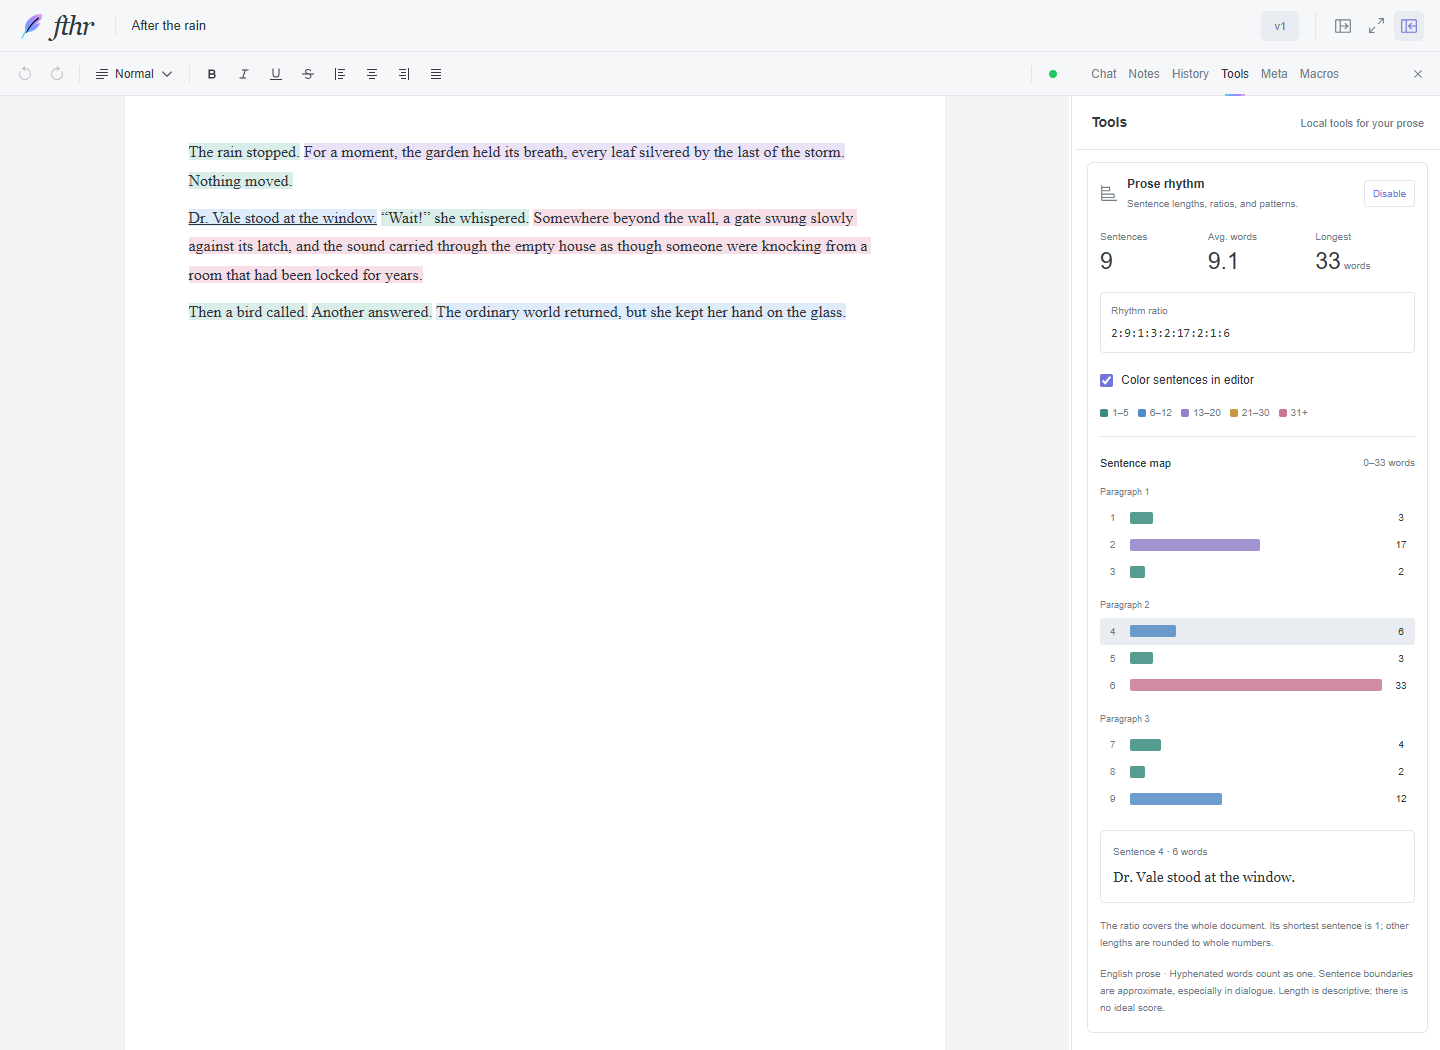
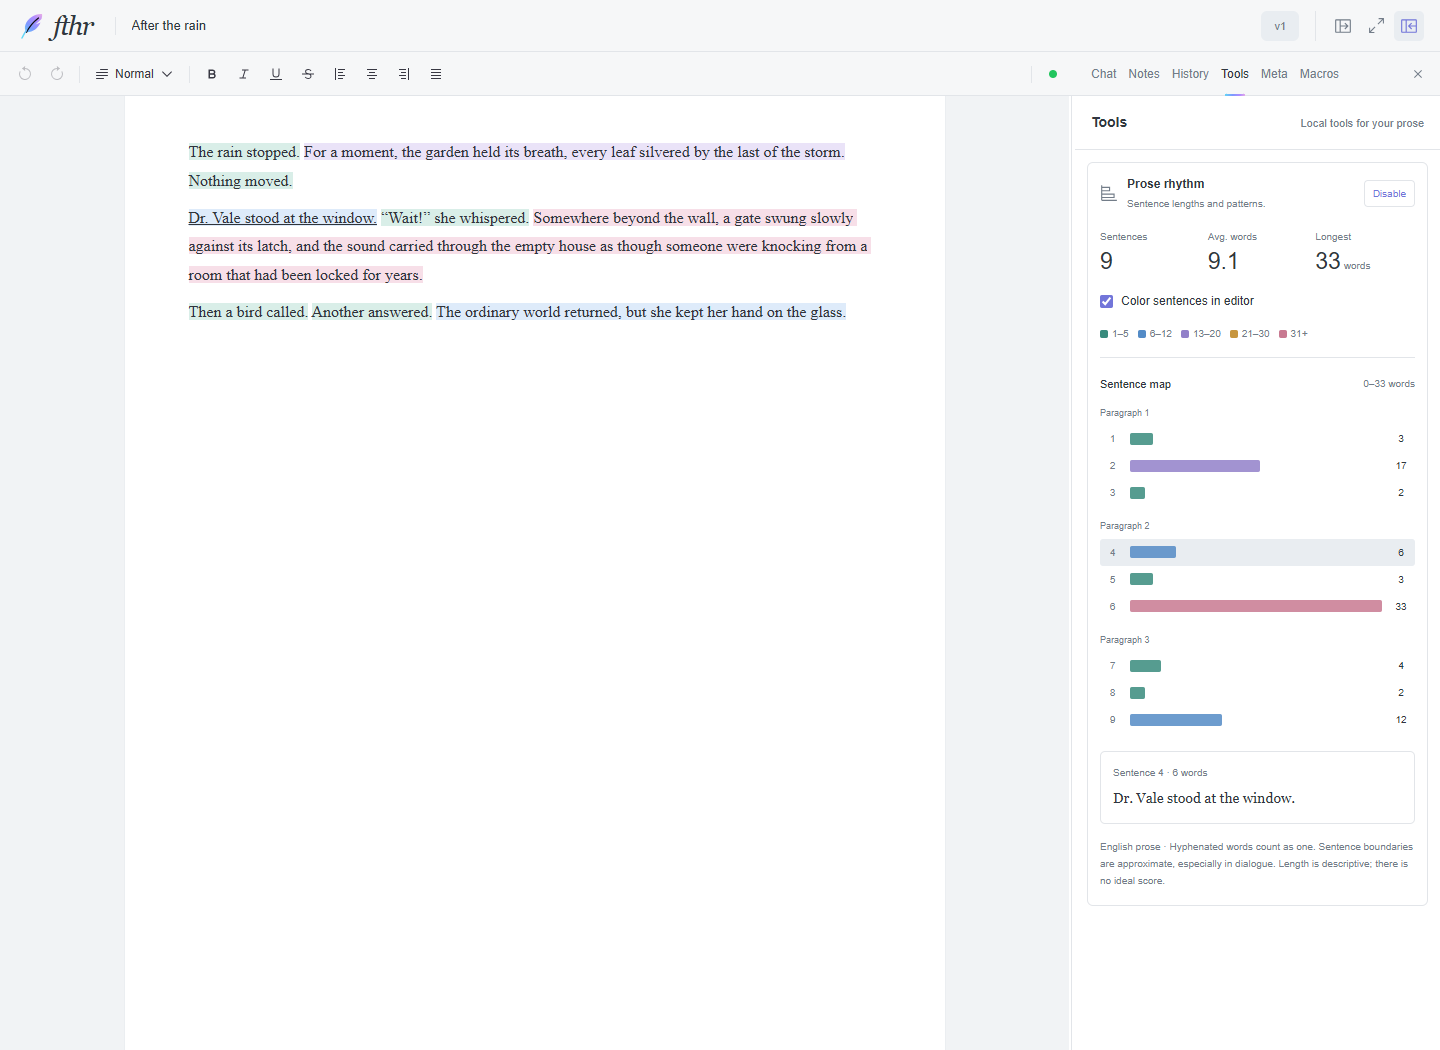
Remove rhythm ratio from the prose tool

diff --git a/src/components/Tools/ToolsPanel.tsx b/src/components/Tools/ToolsPanel.tsx
@@ -1,7 +1,7 @@
 import { useEffect, useState, type CSSProperties } from 'react';
 import { ChartBar } from '@carbon/icons-react';
 import useStore from '@store/store';
-import { canSegmentProse, RHYTHM_BANDS, rhythmRatio } from '@utils/prose-rhythm';
+import { canSegmentProse, RHYTHM_BANDS } from '@utils/prose-rhythm';
 import { useProseRhythm } from './ProseRhythmContext';
 import './tools.css';
 
@@ -25,7 +25,7 @@ export default function ToolsPanel() {
     <header className="tools-heading"><h2>Tools</h2><span>Local tools for your prose</span></header>
     <div className="tools-list"><article className="tools-tool">
     <div className="tools-tool-title"><ChartBar size={18} aria-hidden="true" />
-      <div className="tools-tool-copy"><h3>Prose rhythm</h3><p>Sentence lengths, ratios, and patterns.</p></div>
+      <div className="tools-tool-copy"><h3>Prose rhythm</h3><p>Sentence lengths and patterns.</p></div>
       <button type="button" className="tools-enable" aria-pressed={rhythm.enabled}
         aria-label={`${rhythm.enabled ? 'Disable' : 'Enable'} prose rhythm`}
         onClick={() => rhythm.setEnabled(value => !value)}>{rhythm.enabled ? 'Disable' : 'Enable'}</button>
@@ -41,8 +41,6 @@ export default function ToolsPanel() {
             <div><dt>Avg. words</dt><dd>{(total / sentences.length).toFixed(1)}</dd></div>
             <div><dt>Longest</dt><dd>{longest}<small> words</small></dd></div>
           </dl>
-          <div className="rhythm-ratio"><span>Rhythm ratio</span><code aria-label="Document rhythm ratio"
-            title="All sentences in the current document version, relative to the shortest sentence and rounded to whole numbers">{rhythmRatio(sentences.map(sentence => sentence.words))}</code></div>
           <label className="rhythm-color-toggle"><input type="checkbox" checked={rhythm.colors} disabled={!rhythm.highlightsAvailable}
             onChange={event => rhythm.setColors(event.target.checked)} />Color sentences in editor</label>
           {!rhythm.highlightsAvailable && <p className="rhythm-hint">Editor colors are unavailable in this browser. The sentence map is still available.</p>}
@@ -76,7 +74,6 @@ export default function ToolsPanel() {
             {active ? <><p>Sentence {sentences.indexOf(active) + 1} · {active.words} words{active.unfinished ? ' · Unfinished' : ''}</p><blockquote>{active.text}</blockquote></>
               : <p>Point to a bar to read its sentence. Click to find it in your writing.</p>}
           </div>
-          <p className="rhythm-hint">The ratio covers the whole document. Its shortest sentence is 1; other lengths are rounded to whole numbers.</p>
           <p className="rhythm-hint">English prose · Hyphenated words count as one. Sentence boundaries are approximate, especially in dialogue. Length is descriptive; there is no ideal score.</p>
         </>}
     </div>}

diff --git a/src/components/Workspace/__tests__/Workspace.tools.test.tsx b/src/components/Workspace/__tests__/Workspace.tools.test.tsx
@@ -93,25 +93,20 @@ describe('Tools and Prose Rhythm in the writing workspace', () => {
     expect(button('Enable prose rhythm').getAttribute('aria-pressed')).toBe('false');
     expect(ownHighlights()).toEqual([]);
     await click('Enable prose rhythm'); expect(rows()).toHaveLength(3);
-    expect(tools().querySelector('[aria-label="Document rhythm ratio"]')?.textContent).toBe('3:3:1');
     await click('Disable prose rhythm');
     expect(rows()).toHaveLength(0); expect(tools().querySelector('.rhythm-content')).toBeNull();
     expect(ownHighlights()).toEqual([]);
   });
-  it('shows one ratio for the entire document across paragraphs and chart pages', async () => {
+  it('paginates sentence maps across paragraph boundaries', async () => {
     const sentence = (count: number) => ['Word', ...Array(count - 1).fill('word')].join(' ') + '.';
     const serialized = JSON.parse(textState(Array(80).fill(sentence(8)).join(' ')));
     serialized.root.children.push(...JSON.parse(textState(`${sentence(16)} ${sentence(24)}`)).root.children);
     const state = JSON.stringify(serialized), doc = fixture('Alpha', '');
     useStore.setState({ chats: [{ ...doc, editorState: state, draftEditorState: state }], currentChatIndex: 0 });
     await mount(); await openRhythm();
-    const ratio = [...Array(80).fill(1), 2, 3].join(':');
-    expect(tools().querySelectorAll('.rhythm-ratio')).toHaveLength(1);
-    expect(tools().querySelector('[aria-label="Document rhythm ratio"]')?.textContent).toBe(ratio);
     expect(rows()).toHaveLength(80);
     await click('Next'); expect(rows()).toHaveLength(2);
-    expect(tools().querySelectorAll('.rhythm-ratio')).toHaveLength(1);
-    expect(tools().querySelector('[aria-label="Document rhythm ratio"]')?.textContent).toBe(ratio);
+    expect(rows().map(row => row.getAttribute('aria-label'))).toEqual(['Sentence 81: 16 words', 'Sentence 82: 24 words']);
     expect(tools().querySelector('.rhythm-paragraph')?.textContent).toBe('Paragraph 2');
   });
   it('opens beside the same manuscript and maps corrected sentences without saving or changing history', async () => {

diff --git a/src/components/Tools/tools.css b/src/components/Tools/tools.css
@@ -39,9 +39,6 @@
 .rhythm-chart-heading { display: flex; justify-content: space-between; gap: 8px; margin-top: 18px; font-size: 11px; }
 .rhythm-chart-heading > span:last-child { color: var(--muted); font-size: 10px; }
 .rhythm-paragraph { font-size: 9px; color: var(--muted); margin: 14px 0 5px; min-width: 0; }
-.rhythm-ratio { display: flex; flex-direction: column; gap: 6px; min-width: 0; margin: 0 0 18px; padding: 10px; border: 1px solid var(--line); border-radius: 4px; }
-.rhythm-ratio > span { font-size: 10px; color: var(--muted); }
-.rhythm-ratio code { display: block; max-width: 100%; min-width: 0; overflow-x: auto; white-space: nowrap; font-size: 12px; color: var(--ink); font-variant-numeric: tabular-nums; }
 .rhythm-row { display: grid; grid-template-columns: 25px minmax(0, 1fr) 28px; align-items: center; width: 100%; gap: 5px; min-height: 27px; border-radius: 3px; text-align: left; }
 .rhythm-row:hover, .rhythm-row.is-active { background: var(--hover); }
 .rhythm-number, .rhythm-word-count { color: var(--muted); font-size: 10px; font-variant-numeric: tabular-nums; text-align: center; }

diff --git a/src/utils/__tests__/prose-rhythm.test.ts b/src/utils/__tests__/prose-rhythm.test.ts
@@ -1,5 +1,5 @@
 import { describe, expect, it } from 'vitest';
-import { countProseWords, rhythmBand, rhythmRatio, segmentProse } from '../prose-rhythm';
+import { countProseWords, rhythmBand, segmentProse } from '../prose-rhythm';
 
 describe('English prose rhythm boundaries', () => {
   it.each([
@@ -36,11 +36,5 @@ describe('English prose rhythm boundaries', () => {
   it('uses fixed descriptive bands at their boundaries', () => {
     expect([1, 5, 6, 12, 13, 20, 21, 30, 31, 200].map(rhythmBand))
       .toEqual(['brief', 'brief', 'short', 'short', 'medium', 'medium', 'long', 'long', 'extended', 'extended']);
-  });
-  it('expresses relative sentence lengths as a whole-number rhythm ratio', () => {
-    expect(rhythmRatio([8, 8, 8, 16, 16, 8])).toBe('1:1:1:2:2:1');
-    expect(rhythmRatio([7, 10, 15, 20])).toBe('1:1:2:3');
-    expect(rhythmRatio([12])).toBe('1');
-    expect(rhythmRatio([])).toBe('');
   });
 });

diff --git a/src/utils/prose-rhythm.ts b/src/utils/prose-rhythm.ts
@@ -14,14 +14,6 @@ export function rhythmBand(words: number): RhythmBand {
   return RHYTHM_BANDS.find(band => words <= band.max)!.id;
 }
 
-/** Normalize a passage to its shortest sentence and round to whole numbers. */
-export function rhythmRatio(wordCounts: readonly number[]): string {
-  const counts = wordCounts.filter(count => Number.isFinite(count) && count > 0);
-  if (!counts.length) return '';
-  const shortest = counts.reduce((minimum, count) => Math.min(minimum, count), Infinity);
-  return counts.map(count => Math.max(1, Math.round(count / shortest))).join(':');
-}
-
 let sentences: Intl.Segmenter | undefined;
 let words: Intl.Segmenter | undefined;
 export function canSegmentProse() { return typeof Intl.Segmenter === 'function'; }

diff --git a/docs/prose-rhythm.md b/docs/prose-rhythm.md
@@ -4,8 +4,6 @@ Open the right panel and choose **Tools**, then **Enable** on the Prose rhythm c
 
 The map groups sentences by paragraph. Each bar shows its word count; hover or focus to read a sentence, and click to scroll to it without replacing a text selection. The five colors represent 1–5, 6–12, 13–20, 21–30, and 31+ words. The longest sentence sets the shared chart scale. Long maps have pages of 80 sentences.
 
-One **Rhythm ratio** summarizes all sentences in the current document version: divide each sentence's word count by the document's shortest sentence, then round to whole numbers. For example, `8, 8, 8, 16, 16, 8` words becomes **1:1:1:2:2:1**. It stays the same across chart pages and paragraph boundaries. The ratio describes relative lengths; it does not rate the prose.
-
 This initial version analyzes English prose with local sentence and word segmentation plus rules for common titles, initials, dialogue tags, and lowercase sentence openings. Contractions and hyphenated compounds count as one word; numbers count as word-like items. Soft breaks remain within sentences; hard paragraph boundaries stay separate. Headings, code, and tables are excluded. Unpunctuated endings appear as unfinished sentences. Boundaries remain approximate for ambiguous dialogue, abbreviations, and unusual punctuation.
 
 The tool reads the current Lexical state and paints browser ranges with CSS Custom Highlights. It does not write sentence colors or analysis into the document, export, history, or undo stack. Retained selection takes precedence over rhythm colors. A browser without custom highlights still gets the map. Sentence segmentation support is required.
@@ -22,14 +20,14 @@ Default Tools list:
 
 Enabled, light theme:
 
-![Sentence map, document rhythm ratio, and manuscript colors](previews/prose-rhythm-light.png)
+![Sentence map and manuscript colors](previews/prose-rhythm-light.png)
 
 [Dark theme](previews/prose-rhythm-dark.png) · [Phone layout](previews/prose-rhythm-phone.png)
 
 ## Verification
 
-Unit and integration tests cover the stated sentence conventions, exact Lexical mappings across styles and links, repeated text, Unicode, soft breaks, nested lists, cache refresh after formatting, default-off behavior, enable/disable, whole-number ratios, version/document changes, retained selection, IME event handling, and highlight cleanup/fallback. They use synthetic documents and in-memory storage.
+Unit and integration tests cover the stated sentence conventions, exact Lexical mappings across styles and links, repeated text, Unicode, soft breaks, nested lists, cache refresh after formatting, default-off behavior, enable/disable, chart pagination, version/document changes, retained selection, IME event handling, and highlight cleanup/fallback. They use synthetic documents and in-memory storage.
 
-Chrome browser checks cover the default compact menu, visible colors and ratios in light/dark themes, color toggling, bar focus/click, unchanged serialized content, native keyboard selection retained on panel focus, live typing, and a 390px phone drawer without horizontal page overflow.
+Chrome browser checks cover the default compact menu, visible colors in light/dark themes, color toggling, bar focus/click, unchanged serialized content, native keyboard selection retained on panel focus, live typing, and a 390px phone drawer without horizontal page overflow.
 
 Other browser engines, the packaged Electron renderer, physical IME entry, and book-length performance have not been verified. The chart is paged and sentence segmentation is cached per prose block, but the prototype still reads the active document and refreshes highlight ranges after content/format changes.
